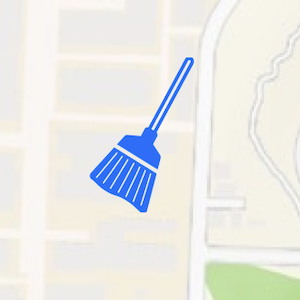
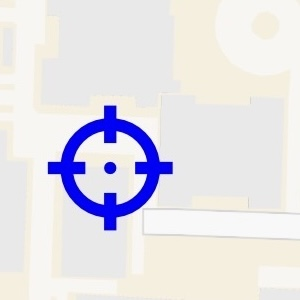
ポインター変更

diff --git a/frontend/src/View/clean/CleanHowToView.tsx b/frontend/src/View/clean/CleanHowToView.tsx
@@ -4,8 +4,9 @@ import { View, Text, StyleSheet, Image, ScrollView } from "react-native";
 import { FontAwesome } from "@expo/vector-icons";
 const CleanHowToSample = require("../../../assets/CleanHowToSample.png");
 const broomRed = require("./assets/image/broom-red.png");
-const broomBlue = require("./assets/image/broom-blue.png");
 const broomGreen = require("./assets/image/broom-green.png");
+import { NewPostMarkerIcon } from "./compornents/NewPostMarker"; // 追加
+
 const CleanHowToView = () => {
   return (
     <ScrollView style={{ flex: 1, backgroundColor: "#fff" }}>
@@ -58,7 +59,8 @@ const CleanHowToView = () => {
               <Text style={styles.pinLabel}>掃除完了</Text>
             </View>
             <View style={styles.pinItem}>
-              <Image source={broomBlue} style={styles.pinImage} />
+              {/* 青ほうきの代わりに NewPostMarkerIcon を表示 */}
+              <NewPostMarkerIcon size={28} />
               <Text style={styles.pinLabel}>自分の投稿</Text>
             </View>
           </View>

diff --git a/frontend/src/View/clean/compornents/NewPostMarker.tsx b/frontend/src/View/clean/compornents/NewPostMarker.tsx
@@ -17,4 +17,10 @@ export const NewPostMarker = ({ markerLocation }) => {
     </>
   );
 };
+
+// MapViewの外でも使えるシンプルなアイコン（HowTo画面等で利用）
+export const NewPostMarkerIcon = ({ size = 28, color = "blue", style }: { size?: number; color?: string; style?: any }) => (
+  <MaterialCommunityIcons name="target" size={size} color={color} style={style} />
+);
+
 export default NewPostMarker;
